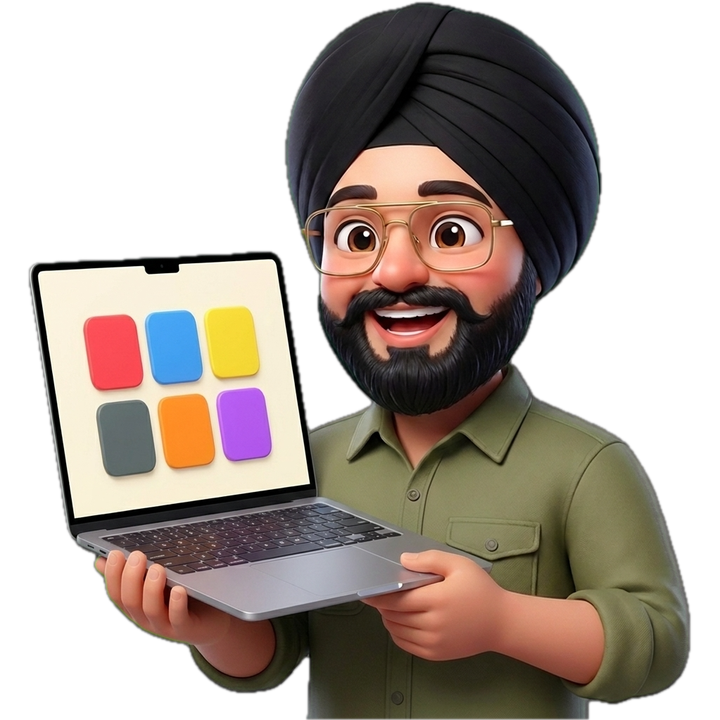
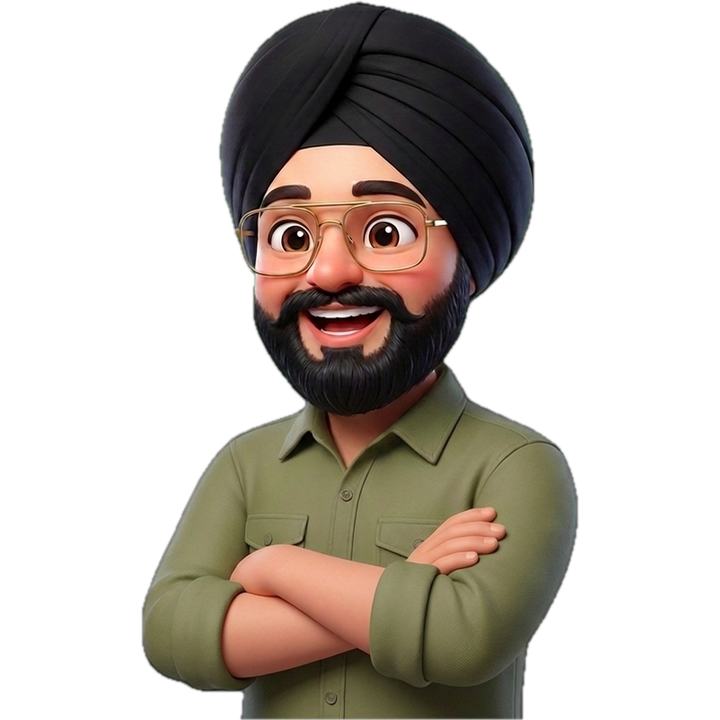
Mandeep's picture: arms folded again, in the new look
The laptop pose is gone; the folded arms read better. The look stays: black
turban, glasses, olive shirt, and a beard that is black all through. Only
this pose is kept in branding/mandeep/.

diff --git a/docs/about/index.html b/docs/about/index.html
@@ -2,7 +2,7 @@
        written in where there is one. Both are cheaper to read than the HTML. --><link rel="alternate" type="text/markdown" href="/llms.txt" title="Brief for language models"><link rel="alternate" type="application/rss+xml" href="/blog/rss.xml" title="The Sukhi Play blog"><script type="application/ld+json">{"@context":"https://schema.org","@type":"SoftwareApplication","name":"Sukhi Play","url":"https://sukhiplay.com","description":"A locked-down browser that lets a small child open only the websites a grown-up chose, and nothing else.","applicationCategory":"BrowserApplication","applicationSubCategory":"Parental control","operatingSystem":"macOS, Windows, Linux","license":"https://sukhiplay.com/licence/","isAccessibleForFree":true,"offers":{"@type":"Offer","price":"0","priceCurrency":"USD"},"softwareHelp":"https://sukhiplay.com/docs/","downloadUrl":"https://sukhiplay.com/download/","codeRepository":"https://github.com/meSingh/sukhi-play","author":{"@type":"Person","name":"Mandeep Singh","url":"https://www.msingh.com"}}</script><script type="application/ld+json">{"@context":"https://schema.org","@type":"WebSite","name":"Sukhi Play","url":"https://sukhiplay.com/","inLanguage":"en-GB","description":"A free locked-down browser for small children, its playground of apps, and a blog for parents.","publisher":{"@type":"Person","@id":"https://www.msingh.com/#me","name":"Mandeep Singh","url":"https://sukhiplay.com/about/"}}</script><script type="application/ld+json">{"@context":"https://schema.org","@type":"ProfilePage","url":"https://sukhiplay.com/about/","name":"Who makes Sukhi Play","mainEntity":{"@type":"Person","@id":"https://www.msingh.com/#me","name":"Mandeep Singh","url":"https://www.msingh.com","image":"https://sukhiplay.com/assets/mandeep.png","sameAs":["https://github.com/meSingh"],"description":"A parent who builds Sukhi Play, a free locked-down browser for small children, and the playground apps for his own son and daughter.","knowsAbout":["kiosk browsers for children","screen time for toddlers","Electron","web apps for children"]},"about":{"@type":"SoftwareApplication","name":"Sukhi Play","url":"https://sukhiplay.com"}}</script><script>document.documentElement.classList.remove('no-js')</script><link rel="stylesheet" href="/build/announcements.uW7hfsyH.css"></head> <body> <a class="skip" href="#main">Skip to content</a> <header class="top"> <a class="brand" href="/"><picture><source type="image/webp" srcset="/img/assets/sukhi-icon-96.webp 96w, /img/assets/sukhi-icon-160.webp 160w, /img/assets/sukhi-icon-240.webp 240w, /img/assets/sukhi-icon-480.webp 480w, /img/assets/sukhi-icon-800.webp 800w, /img/assets/sukhi-icon-1024.webp 1024w" sizes="38px"><img src="/assets/sukhi-icon.png" alt width="38" height="38"></picture>Sukhi Play</a> <button class="menu-btn" type="button" aria-label="Open menu" aria-expanded="false" aria-controls="site-nav"> <span></span><span></span><span></span> </button> <nav id="site-nav" tabindex="-1"> <div class="nav-head"> <picture><source type="image/webp" srcset="/img/assets/sukhi-icon-96.webp 96w, /img/assets/sukhi-icon-160.webp 160w, /img/assets/sukhi-icon-240.webp 240w, /img/assets/sukhi-icon-480.webp 480w, /img/assets/sukhi-icon-800.webp 800w, /img/assets/sukhi-icon-1024.webp 1024w" sizes="34px"><img src="/assets/sukhi-icon.png" alt width="34" height="34"></picture>Sukhi Play
 <button class="menu-close" type="button" aria-label="Close menu">&times;</button> </div> <div class="nav-group"> <button class="nav-group-btn" type="button" aria-expanded="false" aria-controls="nav-apps"> Apps <svg class="nav-caret" viewBox="0 0 12 8" aria-hidden="true"><path d="M1 1.5 6 6.5l5-5" fill="none" stroke="currentColor" stroke-width="2" stroke-linecap="round" stroke-linejoin="round"></path></svg> </button> <div class="nav-panel" id="nav-apps"> <p class="nav-panel-label">Apps</p> <div class="nav-panel-items"> <a class="nav-item" href="/studio/"> <picture><source type="image/webp" srcset="/img/assets/playground-studio-96.webp 96w, /img/assets/playground-studio-160.webp 160w, /img/assets/playground-studio-240.webp 240w, /img/assets/playground-studio-480.webp 480w, /img/assets/playground-studio-512.webp 512w" sizes="40px"><img src="/assets/playground-studio.png" alt width="40" height="40"></picture> <span><b>Jazz&#39;s Studio</b><small>Design and print stationery. Ages 7 and up</small></span> </a><a class="nav-item" href="/colouring/"> <picture><source type="image/webp" srcset="/img/assets/playground-colouring-96.webp 96w, /img/assets/playground-colouring-160.webp 160w, /img/assets/playground-colouring-240.webp 240w, /img/assets/playground-colouring-480.webp 480w, /img/assets/playground-colouring-512.webp 512w" sizes="40px"><img src="/assets/playground-colouring.png" alt width="40" height="40"></picture> <span><b>Sukhi Colouring</b><small>Pick a picture and colour it in</small></span> </a><a class="nav-item" href="/playground/#experiments"> <picture><source type="image/webp" srcset="/img/assets/playground-railway-96.webp 96w, /img/assets/playground-railway-160.webp 160w, /img/assets/playground-railway-240.webp 240w, /img/assets/playground-railway-480.webp 480w, /img/assets/playground-railway-512.webp 512w" sizes="40px"><img src="/assets/playground-railway.png" alt width="40" height="40"></picture> <span><b>Sukhi&#39;s Railway<em>Experiment</em></b><small>Build a track, press go</small></span> </a><a class="nav-item" href="/playground/"> <span class="nav-glyph"><svg viewBox="0 0 24 24" fill="none" stroke="currentColor" stroke-width="2" stroke-linecap="round" stroke-linejoin="round" aria-hidden="true"><rect x="4" y="4" width="7" height="7" rx="2"/><rect x="13" y="4" width="7" height="7" rx="2"/><rect x="4" y="13" width="7" height="7" rx="2"/><rect x="13" y="13" width="7" height="7" rx="2"/></svg></span> <span><b>All apps</b><small>Everything in the playground, in any browser</small></span> </a><a class="nav-item" href="/catalogue/"> <span class="nav-glyph"><svg viewBox="0 0 24 24" fill="none" stroke="currentColor" stroke-width="2" stroke-linecap="round" stroke-linejoin="round" aria-hidden="true"><circle cx="12" cy="12" r="9"/><path d="M3 12h18M12 3c2.5 2.6 3.8 5.6 3.8 9s-1.3 6.4-3.8 9c-2.5-2.6-3.8-5.6-3.8-9S9.5 5.6 12 3z"/></svg></span> <span><b>Catalogue</b><small>Websites known to work, ready to switch on</small></span> </a> </div>  </div> </div><div class="nav-group"> <button class="nav-group-btn" type="button" aria-expanded="false" aria-controls="nav-help"> Help <svg class="nav-caret" viewBox="0 0 12 8" aria-hidden="true"><path d="M1 1.5 6 6.5l5-5" fill="none" stroke="currentColor" stroke-width="2" stroke-linecap="round" stroke-linejoin="round"></path></svg> </button> <div class="nav-panel" id="nav-help"> <p class="nav-panel-label">Help</p> <div class="nav-panel-items"> <a class="nav-item" href="/docs/"> <span class="nav-glyph"><svg viewBox="0 0 24 24" fill="none" stroke="currentColor" stroke-width="2" stroke-linecap="round" stroke-linejoin="round" aria-hidden="true"><path d="M5 5.5A2.5 2.5 0 0 1 7.5 3H19v15H7.5A2.5 2.5 0 0 0 5 20.5z"/><path d="M5 20.5A2.5 2.5 0 0 0 7.5 23H19v-5"/></svg></span> <span><b>How it all works</b><small>The documentation, start to finish</small></span> </a><a class="nav-item" href="/docs/installing/"> <span class="nav-glyph"><svg viewBox="0 0 24 24" fill="none" stroke="currentColor" stroke-width="2" stroke-linecap="round" stroke-linejoin="round" aria-hidden="true"><path d="M12 4v11M7 10l5 5 5-5M5 20h14"/></svg></span> <span><b>Installing</b><small>macOS, Windows and Linux</small></span> </a><a class="nav-item" href="/faq/"> <span class="nav-glyph"><svg viewBox="0 0 24 24" fill="none" stroke="currentColor" stroke-width="2" stroke-linecap="round" stroke-linejoin="round" aria-hidden="true"><circle cx="12" cy="12" r="9"/><path d="M9.5 9.5a2.5 2.5 0 1 1 3.4 2.3c-.6.3-.9.8-.9 1.4v.3M12 17h.01"/></svg></span> <span><b>Questions</b><small>What people ask most, in a paragraph each</small></span> </a><a class="nav-item" href="/debug/"> <span class="nav-glyph"><svg viewBox="0 0 24 24" fill="none" stroke="currentColor" stroke-width="2" stroke-linecap="round" stroke-linejoin="round" aria-hidden="true"><path d="M14.5 5.5a4 4 0 0 0 4.9 4.9l-9 9a2 2 0 1 1-2.8-2.8l9-9a4 4 0 0 0-2.1-2.1z"/></svg></span> <span><b>Troubleshooting</b><small>When something is not right</small></span> </a> </div> <p class="nav-panel-more"><a href="/docs/locked-out/">Locked out?</a><a href="/docs/limits/">What it cannot do</a></p> </div> </div> <a class="nav-blog" href="/blog/">Blog</a> <!-- Two controls in one pill: a link that goes to the download page,
          because that is what a button marked Download should do, and a caret
-         for people who already know which machine they are on. --> <div class="nav-dl"> <a class="nav-cta" href="/download/" data-track="Download"> <span>Download</span> <span class="nav-cta-sub">Free, no account</span> </a> <button class="nav-cta-more" type="button" id="nav-dl-btn" aria-expanded="false" aria-controls="nav-dl-menu" aria-label="Choose your platform"> <svg class="nav-caret" viewBox="0 0 12 8" aria-hidden="true"> <path d="M1 1.5 6 6.5l5-5" fill="none" stroke="currentColor" stroke-width="2" stroke-linecap="round" stroke-linejoin="round"></path> </svg> </button> <div class="nav-dl-menu" id="nav-dl-menu"> <a href="/macos/"> <b>macOS</b><small>Apple Silicon, Intel, older Macs</small> </a><a href="/windows/"> <b>Windows</b><small>Installer or portable</small> </a><a href="/linux/"> <b>Linux</b><small>AppImage, deb, Snap</small> </a> </div> </div> </nav> <div class="nav-scrim" hidden></div> </header> <script type="module">const i=document.documentElement,s=document.querySelector(".menu-btn"),r=document.querySelector(".nav-scrim"),u=document.querySelector(".menu-close");if(s&&r&&u){const t=e=>{i.classList.toggle("nav-open",e),s.setAttribute("aria-expanded",String(e)),r.hidden=!e,e&&document.getElementById("site-nav")?.focus({preventScroll:!0})};s.addEventListener("click",()=>t(!0)),u.addEventListener("click",()=>{t(!1),s.focus()}),r.addEventListener("click",()=>t(!1)),document.addEventListener("keydown",e=>{e.key==="Escape"&&i.classList.contains("nav-open")&&(t(!1),s.focus())}),window.matchMedia("(min-width: 621px)").addEventListener("change",e=>{e.matches&&t(!1)})}const c=[...document.querySelectorAll(".nav-group")];if(c.length){i.classList.add("has-nav-groups");const t=e=>c.forEach(n=>{n!==e&&(n.classList.remove("is-open"),n.querySelector(".nav-group-btn")?.setAttribute("aria-expanded","false"))});for(const e of c){const n=e.querySelector(".nav-group-btn");n.addEventListener("click",d=>{d.stopPropagation();const l=!e.classList.contains("is-open");t(e),e.classList.toggle("is-open",l),n.setAttribute("aria-expanded",String(l))})}document.addEventListener("click",e=>{c.some(n=>n.contains(e.target))||t()}),document.addEventListener("keydown",e=>{const n=c.find(d=>d.classList.contains("is-open"));e.key==="Escape"&&n&&(t(),n.querySelector(".nav-group-btn")?.focus())})}const o=document.querySelector(".nav-dl"),a=document.getElementById("nav-dl-btn");if(o&&a){i.classList.add("has-nav-dl");const t=e=>{o.classList.toggle("is-open",e),a.setAttribute("aria-expanded",String(e))};a.addEventListener("click",e=>{e.stopPropagation(),t(!o.classList.contains("is-open"))}),document.addEventListener("click",e=>{o.contains(e.target)||t(!1)}),document.addEventListener("keydown",e=>{e.key==="Escape"&&o.classList.contains("is-open")&&(t(!1),a.focus())})}</script> <div id="main"> <main class="wrap whois"> <header class="whois-hero"> <picture><source type="image/webp" srcset="/img/assets/mandeep-96.webp 96w, /img/assets/mandeep-160.webp 160w, /img/assets/mandeep-240.webp 240w, /img/assets/mandeep-480.webp 480w, /img/assets/mandeep-720.webp 720w" sizes="180px"><img src="/assets/mandeep.png" alt="Mandeep Singh, drawn in the same style as Sukhi and Jazz, laughing and holding up a laptop showing Sukhi Play" width="180" height="180" loading="eager"></picture> <div> <p class="f-kicker">Who makes it</p> <h1>One parent, making things for his children</h1> <p class="lede">I am Mandeep Singh. I built Sukhi Play for my son, and I
+         for people who already know which machine they are on. --> <div class="nav-dl"> <a class="nav-cta" href="/download/" data-track="Download"> <span>Download</span> <span class="nav-cta-sub">Free, no account</span> </a> <button class="nav-cta-more" type="button" id="nav-dl-btn" aria-expanded="false" aria-controls="nav-dl-menu" aria-label="Choose your platform"> <svg class="nav-caret" viewBox="0 0 12 8" aria-hidden="true"> <path d="M1 1.5 6 6.5l5-5" fill="none" stroke="currentColor" stroke-width="2" stroke-linecap="round" stroke-linejoin="round"></path> </svg> </button> <div class="nav-dl-menu" id="nav-dl-menu"> <a href="/macos/"> <b>macOS</b><small>Apple Silicon, Intel, older Macs</small> </a><a href="/windows/"> <b>Windows</b><small>Installer or portable</small> </a><a href="/linux/"> <b>Linux</b><small>AppImage, deb, Snap</small> </a> </div> </div> </nav> <div class="nav-scrim" hidden></div> </header> <script type="module">const i=document.documentElement,s=document.querySelector(".menu-btn"),r=document.querySelector(".nav-scrim"),u=document.querySelector(".menu-close");if(s&&r&&u){const t=e=>{i.classList.toggle("nav-open",e),s.setAttribute("aria-expanded",String(e)),r.hidden=!e,e&&document.getElementById("site-nav")?.focus({preventScroll:!0})};s.addEventListener("click",()=>t(!0)),u.addEventListener("click",()=>{t(!1),s.focus()}),r.addEventListener("click",()=>t(!1)),document.addEventListener("keydown",e=>{e.key==="Escape"&&i.classList.contains("nav-open")&&(t(!1),s.focus())}),window.matchMedia("(min-width: 621px)").addEventListener("change",e=>{e.matches&&t(!1)})}const c=[...document.querySelectorAll(".nav-group")];if(c.length){i.classList.add("has-nav-groups");const t=e=>c.forEach(n=>{n!==e&&(n.classList.remove("is-open"),n.querySelector(".nav-group-btn")?.setAttribute("aria-expanded","false"))});for(const e of c){const n=e.querySelector(".nav-group-btn");n.addEventListener("click",d=>{d.stopPropagation();const l=!e.classList.contains("is-open");t(e),e.classList.toggle("is-open",l),n.setAttribute("aria-expanded",String(l))})}document.addEventListener("click",e=>{c.some(n=>n.contains(e.target))||t()}),document.addEventListener("keydown",e=>{const n=c.find(d=>d.classList.contains("is-open"));e.key==="Escape"&&n&&(t(),n.querySelector(".nav-group-btn")?.focus())})}const o=document.querySelector(".nav-dl"),a=document.getElementById("nav-dl-btn");if(o&&a){i.classList.add("has-nav-dl");const t=e=>{o.classList.toggle("is-open",e),a.setAttribute("aria-expanded",String(e))};a.addEventListener("click",e=>{e.stopPropagation(),t(!o.classList.contains("is-open"))}),document.addEventListener("click",e=>{o.contains(e.target)||t(!1)}),document.addEventListener("keydown",e=>{e.key==="Escape"&&o.classList.contains("is-open")&&(t(!1),a.focus())})}</script> <div id="main"> <main class="wrap whois"> <header class="whois-hero"> <picture><source type="image/webp" srcset="/img/assets/mandeep-96.webp 96w, /img/assets/mandeep-160.webp 160w, /img/assets/mandeep-240.webp 240w, /img/assets/mandeep-480.webp 480w, /img/assets/mandeep-720.webp 720w" sizes="180px"><img src="/assets/mandeep.png" alt="Mandeep Singh, drawn in the same style as Sukhi and Jazz, smiling with his arms folded" width="180" height="180" loading="eager"></picture> <div> <p class="f-kicker">Who makes it</p> <h1>One parent, making things for his children</h1> <p class="lede">I am Mandeep Singh. I built Sukhi Play for my son, and I
           keep making things for him and his sister. Other families are welcome to
           everything.</p> </div> </header> <section class="whois-facts" aria-label="In short"> <div><b>No company</b><span>One person. No investors, no staff, nothing to sell.</span></div> <div><b>No adverts</b><span>Not in the app, not in the playground, not on this site.</span></div> <div><b>Nothing collected</b><span>No account. The app sends nothing about your child anywhere.</span></div> <div><b>Code in public</b><span>Every line, including what decides what a child can reach.</span></div> </section> <div class="whois-body doc-body"> <h2>Why it exists</h2> <p>My son Sukhraj, Sukhi to everyone, was three and wanted to play games on
         my laptop. He also pressed every key and clicked every button he could
